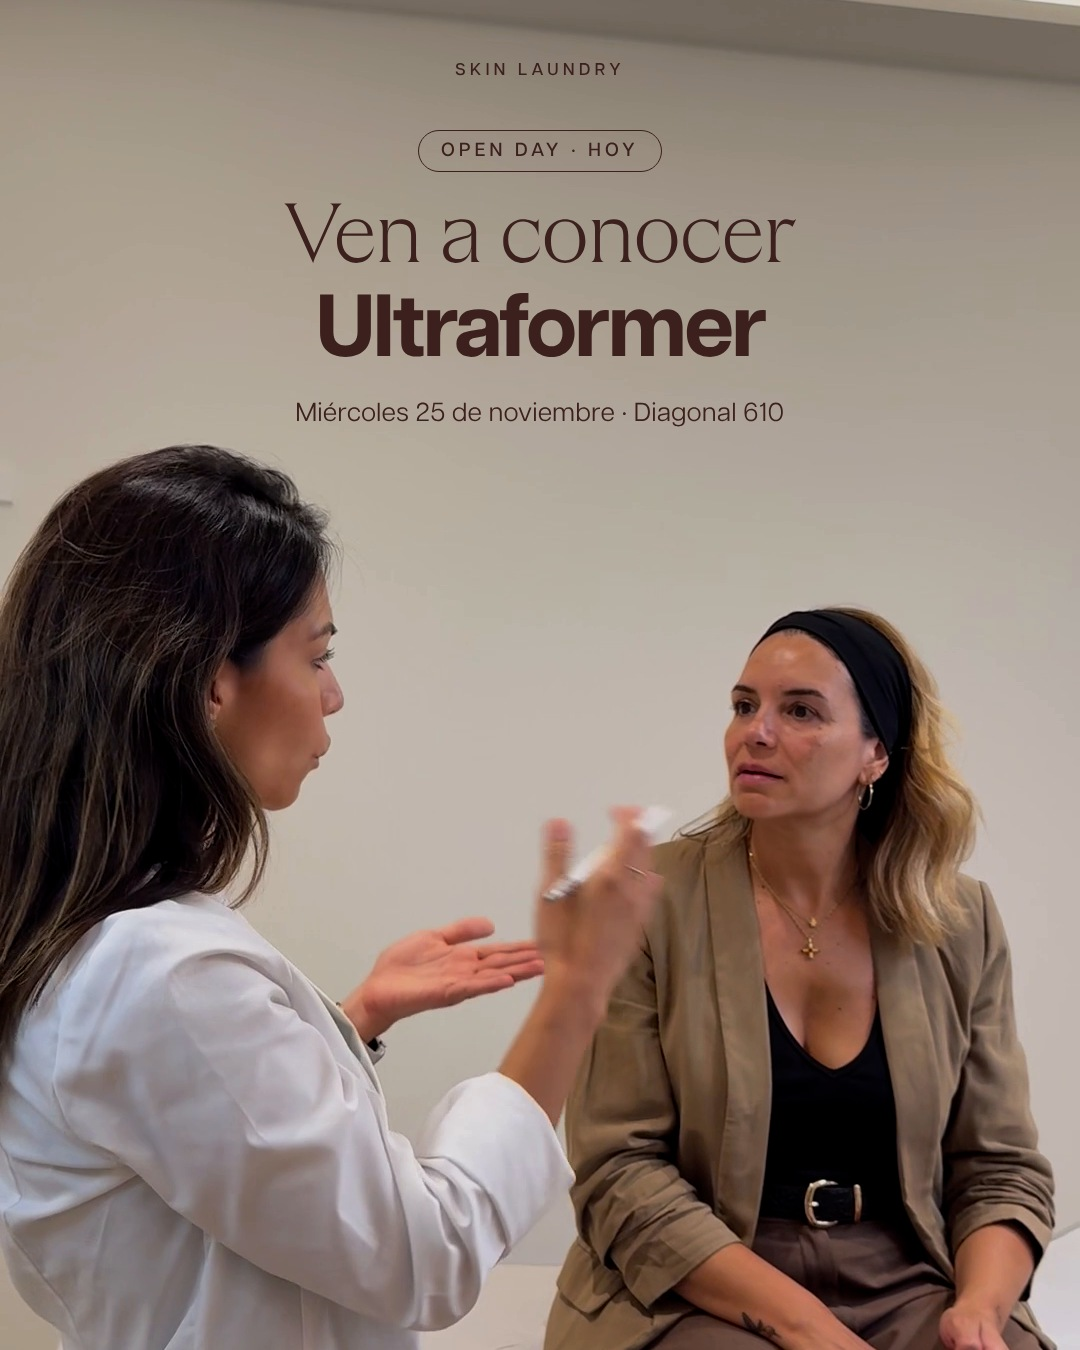
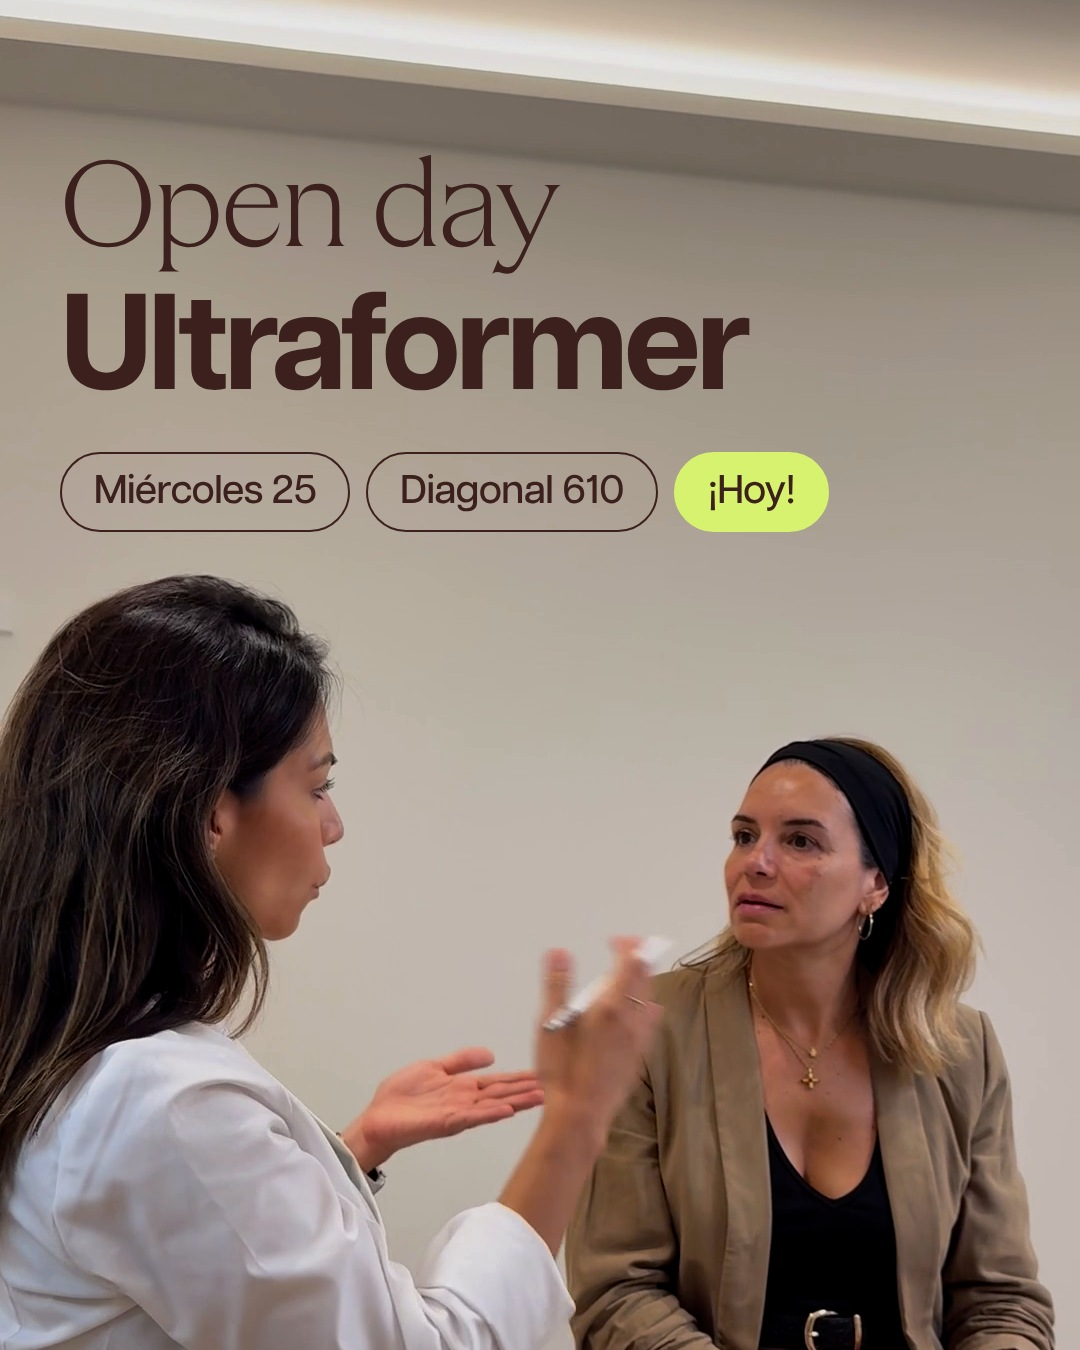
Skin Laundry: post 25 con tipografías combinadas y texto grande
Claude-Session: https://claude.ai/code/session_01JZ4qrB4vBJCM1LriYw1bZU

diff --git a/public/pitch/skin-laundry-calendario/noviembre/index.html b/public/pitch/skin-laundry-calendario/noviembre/index.html
@@ -787,7 +787,7 @@ Si te queda alguna duda, déjala en comentarios y te contestamos.
 📍 Av. Diagonal 610, Barcelona
 #SkinLaundryBarcelona #PrimeraVisita #LaserFacial #Equipo` },
 
-{ d:25, formato:"Post", estado:"listo", media:"/pitch/skin-laundry-calendario/noviembre/img/d25_post.jpg?v=11191220", cubo:"Med. estética", tema:"Ultraformer", hora:"10:00h",
+{ d:25, formato:"Post", estado:"listo", media:"/pitch/skin-laundry-calendario/noviembre/img/d25_post.jpg?v=11191222", cubo:"Med. estética", tema:"Ultraformer", hora:"10:00h",
   pieza:"Open day: ven a verlo",
   base:"Doc §1", cta:"Consulta previa con nuestros médicos",
   nota:"Diseño listo · confirmar el horario del open day (no aparece en el diseño; el copy lo deja como [de X a X h])",
